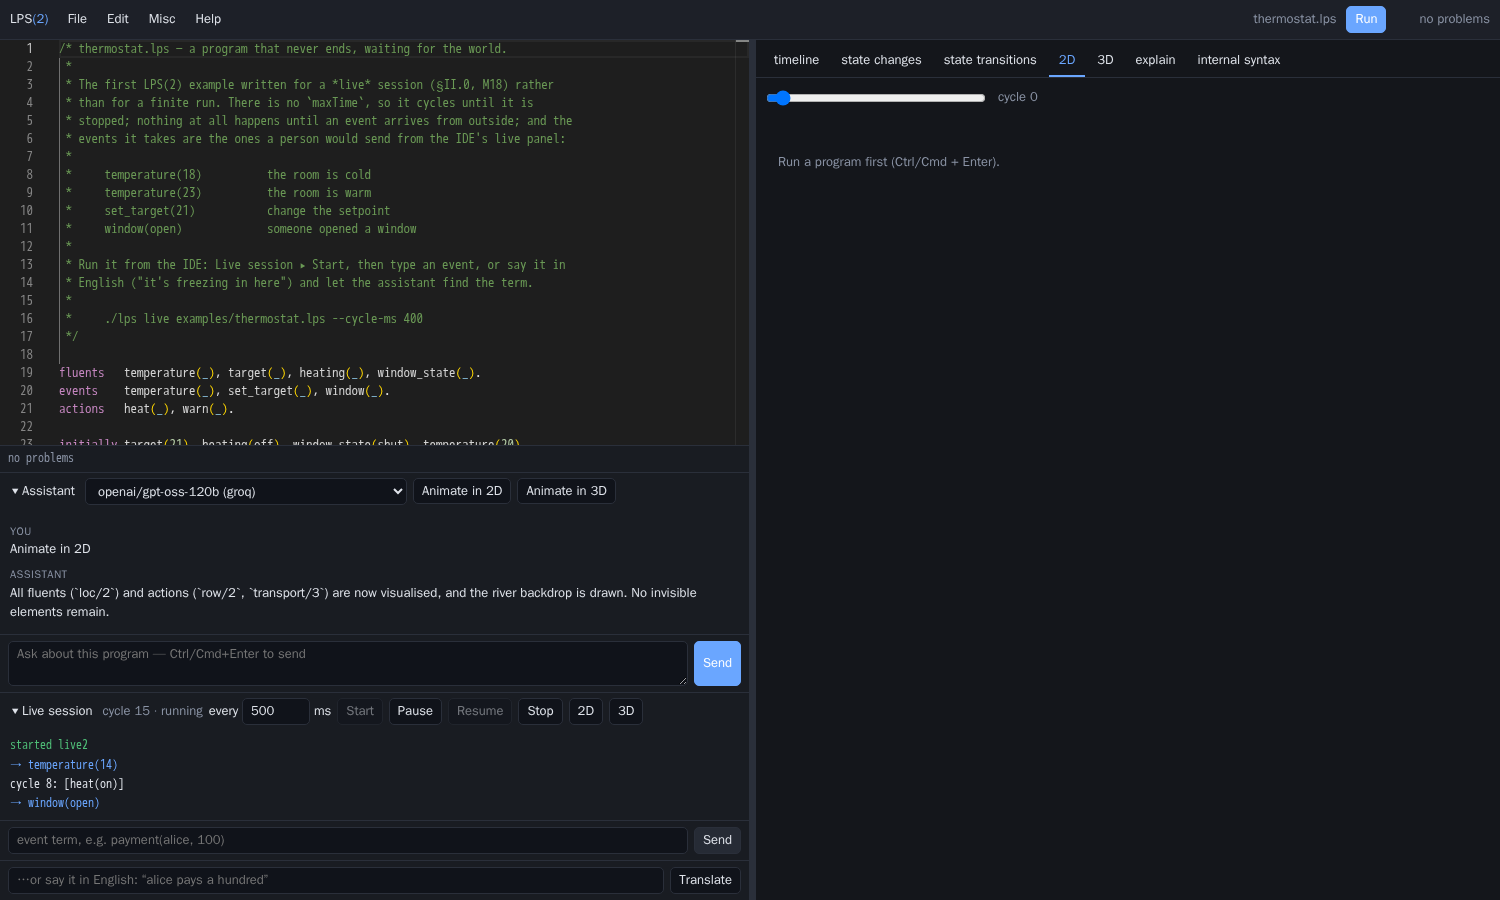
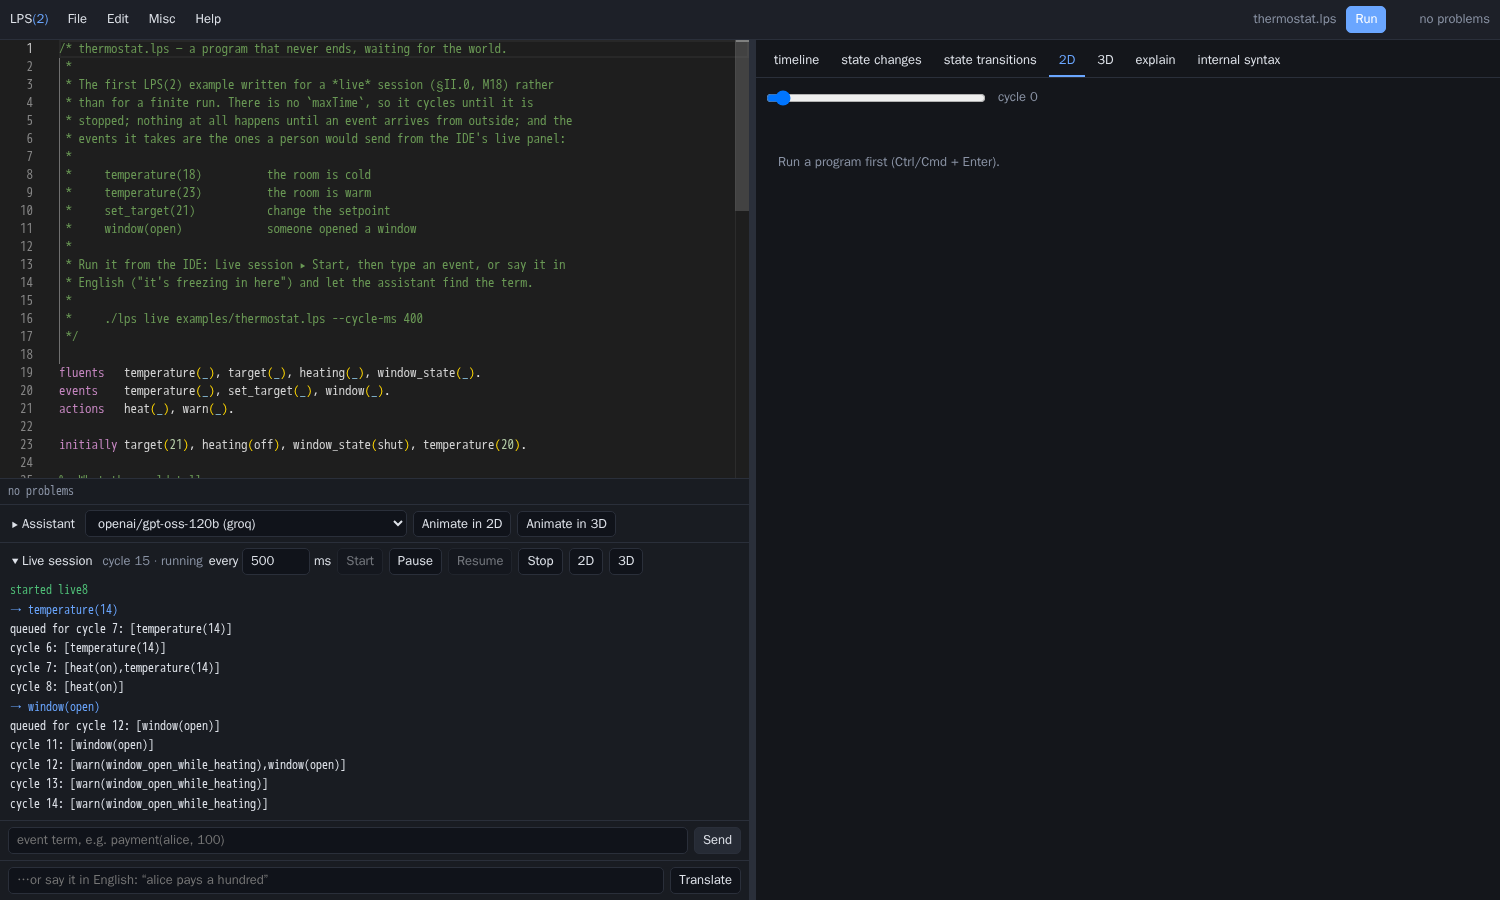
docs: regenerate the screenshots, and stop citing what varies
The live-session feed is now complete in the picture rather than randomly
missing lines — that is the mutex fix showing — and the assistant panel is
collapsed before the shot so the editor is visible next to it.

Two captions cited details that change between runs: a specific "queued for
cycle 15", and an enumeration of what the assistant happened to draw that time.
Both now describe the shape rather than the instance. The one detail worth
keeping is the repetition: `warn(window_open_while_heating)` fires every cycle
because a reactive rule is a maintenance goal, and that is the same point §7 of
the tutorial makes about alarms.

Claude-Session: https://claude.ai/code/session_013dNNxC92Bxnx9MyzmhCzfJ

diff --git a/docs/IntroducingLPS2.md b/docs/IntroducingLPS2.md
@@ -431,8 +431,10 @@ Drop `maxTime` and the program cycles until stopped, doing nothing until an even
 
 That is `examples/thermostat.lps`. Two events went in from the panel — `temperature(14)`
 then `window(open)` — and the program answered with
-`warn(window_open_while_heating)`. Note *queued for cycle 15*: an event arriving mid-cycle
-is delivered at the next boundary, so a session's trace remains a trace and not a race.
+`warn(window_open_while_heating)`. Note the *queued for cycle N* lines: an event arriving mid-cycle
+is delivered at the next boundary, so a session's trace remains a trace and not a race. The
+warning repeats every cycle because a reactive rule is a maintenance goal and the window is
+still open.
 
 The pacing is a wall-clock loop in `src/edges/lps_live.pl` — the one place in the system
 that reads the clock as a *rate*. The engine's own notion of when things happen is
@@ -566,8 +568,9 @@ and one click later:
 ![The result](images/ide-assistant-2d.png)
 
 That is the declarative goat — a program with no visual mapping at all — animated by
-`openai/gpt-oss-120b`: the river, the wolf on the south bank, the goat, the cabbage and
-the farmer on the north, and the boat.
+`openai/gpt-oss-120b`: a river between two banks, and the wolf, the goat, the cabbage and
+the farmer drawn from the icon library on whichever bank they are on. The exact layout
+varies between runs, which is what it means for a model to have written it.
 
 The `scene` tool is why it looks like that. Without it the same model on the same program
 wrote a blue rectangle labelled "river", checked that the scene was non-empty, and finished

diff --git a/docs/lps_tutorial.md b/docs/lps_tutorial.md
@@ -438,7 +438,7 @@ and then *Apply to editor* and run:
 ![The result](images/ide-assistant-2d.png)
 
 That is the declarative goat, animated from a program that had no visual mapping at all,
-by one click. The assistant has the same tools you do — it compiles, runs, asks why, and
+by one click. (The layout varies between runs — a model wrote it.) The assistant has the same tools you do — it compiles, runs, asks why, and
 checks what its own clauses actually drew — and it will not finish while a fluent is still
 invisible.
 
@@ -516,8 +516,10 @@ in English and let the assistant find the term.
 ![A live session](images/ide-live.png)
 
 Two events went in — `temperature(14)` then `window(open)` — and the program answered with
-`warn(window_open_while_heating)`. Note "queued for cycle 15": an event that arrives mid-cycle
-is delivered at the next boundary, so a session's trace stays a trace.
+`warn(window_open_while_heating)`. Note the *queued for cycle N* lines: an event that arrives mid-cycle is
+delivered at the next boundary, so a session's trace stays a trace and not a race. Note
+also that the warning repeats every cycle — a reactive rule is a maintenance goal (§7), and
+the window is still open.
 
 The **2D** and **3D** buttons open a window that follows the running session rather than
 scrubbing a finished one:
